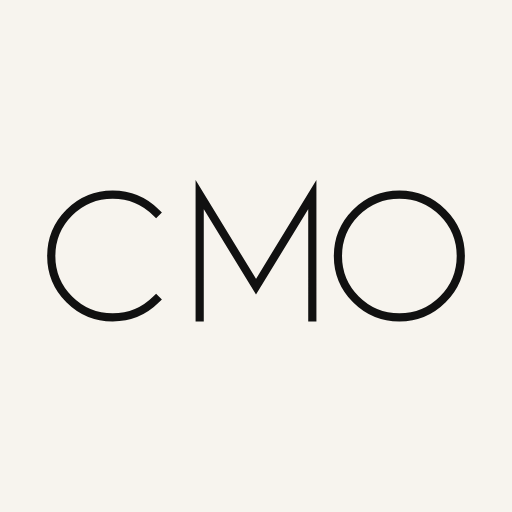
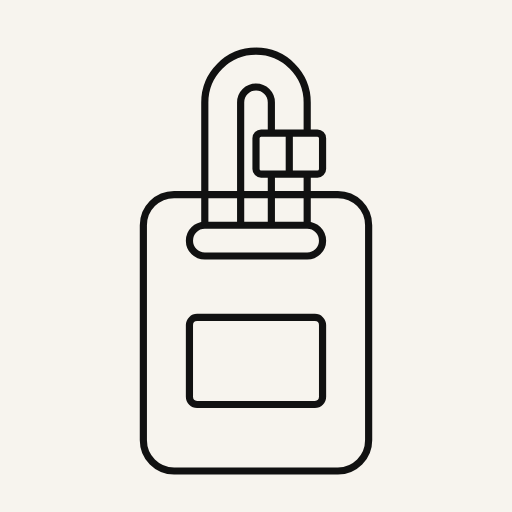
圖示：CMO 字母組合改為行李吊牌圖形
- 圓角直立吊牌、上方橫向穿孔，皮帶穿過繞成環並附極簡扣環，中間細線名片窗
- 單色 #111 線條、米白 #F7F4EE 底，無漸層無陰影
- favicon 另做裁切較緊、線條較粗的版本，縮小仍可辨識
- 重新產生 apple-touch-icon（180）與 512 App 圖示；文字 logo 不變

Claude-Session: https://claude.ai/code/session_01BBjGEfStSWqWn7ThhofjWd

Changed region(s): [[0.0938, 0.0938, 0.9062, 0.9375]]

diff --git a/index.html b/index.html
@@ -8,8 +8,8 @@
   <meta name="mobile-web-app-capable" content="yes">
   <meta name="apple-mobile-web-app-title" content="Carry My Own">
   <title>Carry My Own</title>
-  <link rel="icon" type="image/svg+xml" href="icons/favicon.svg">
-  <link rel="apple-touch-icon" href="icons/apple-touch-icon.png">
+  <link rel="icon" type="image/svg+xml" href="icons/favicon.svg?v=2">
+  <link rel="apple-touch-icon" href="icons/apple-touch-icon.png?v=2">
   <link rel="preconnect" href="https://fonts.googleapis.com">
   <link rel="preconnect" href="https://fonts.gstatic.com" crossorigin>
   <link rel="stylesheet" href="https://fonts.googleapis.com/css2?family=Cormorant+Garamond:wght@300;400&family=Noto+Sans+TC:wght@400;500;700&family=Noto+Serif+TC:wght@300;400;600&display=swap">

diff --git a/sw.js b/sw.js
@@ -3,7 +3,7 @@
  * 有網路時一律抓最新版（同時更新快取）；沒網路時改用快取。
  * 只處理自己網站的檔案，Supabase 等外部連線不經過這裡。
  */
-var CACHE = 'luggage-app-v14';
+var CACHE = 'luggage-app-v15';
 var ASSETS = [
   './', 'index.html', 'style.css', 'weights.js', 'photos.js', 'clothing.js', 'app.js',
   'closet.js', 'trips.js', 'organize.js', 'packing.js', 'drawer.js', 'bags.js', 'shop.js', 'nav.js', 'backup.js', 'cloud.js', 'vendor/supabase.js',
